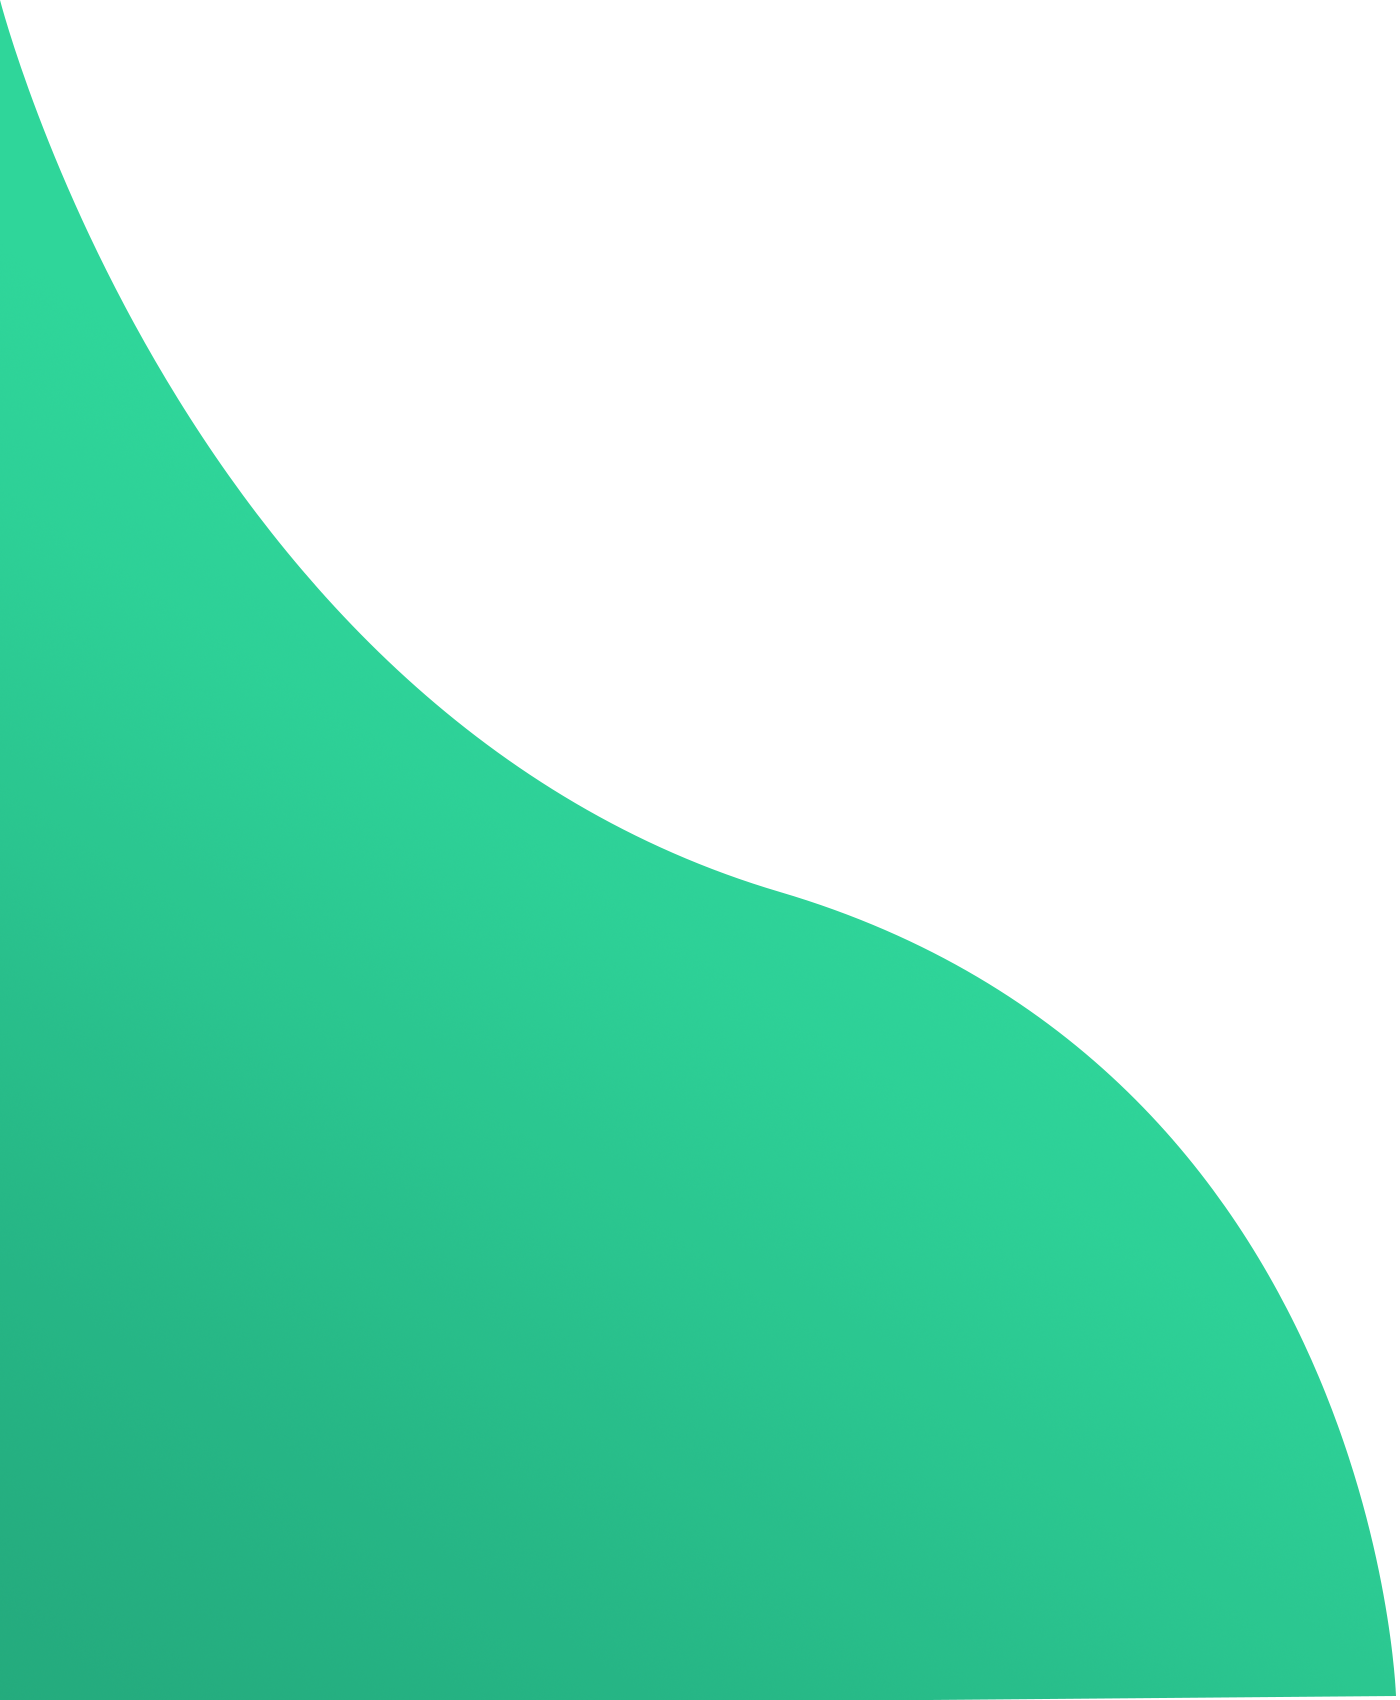
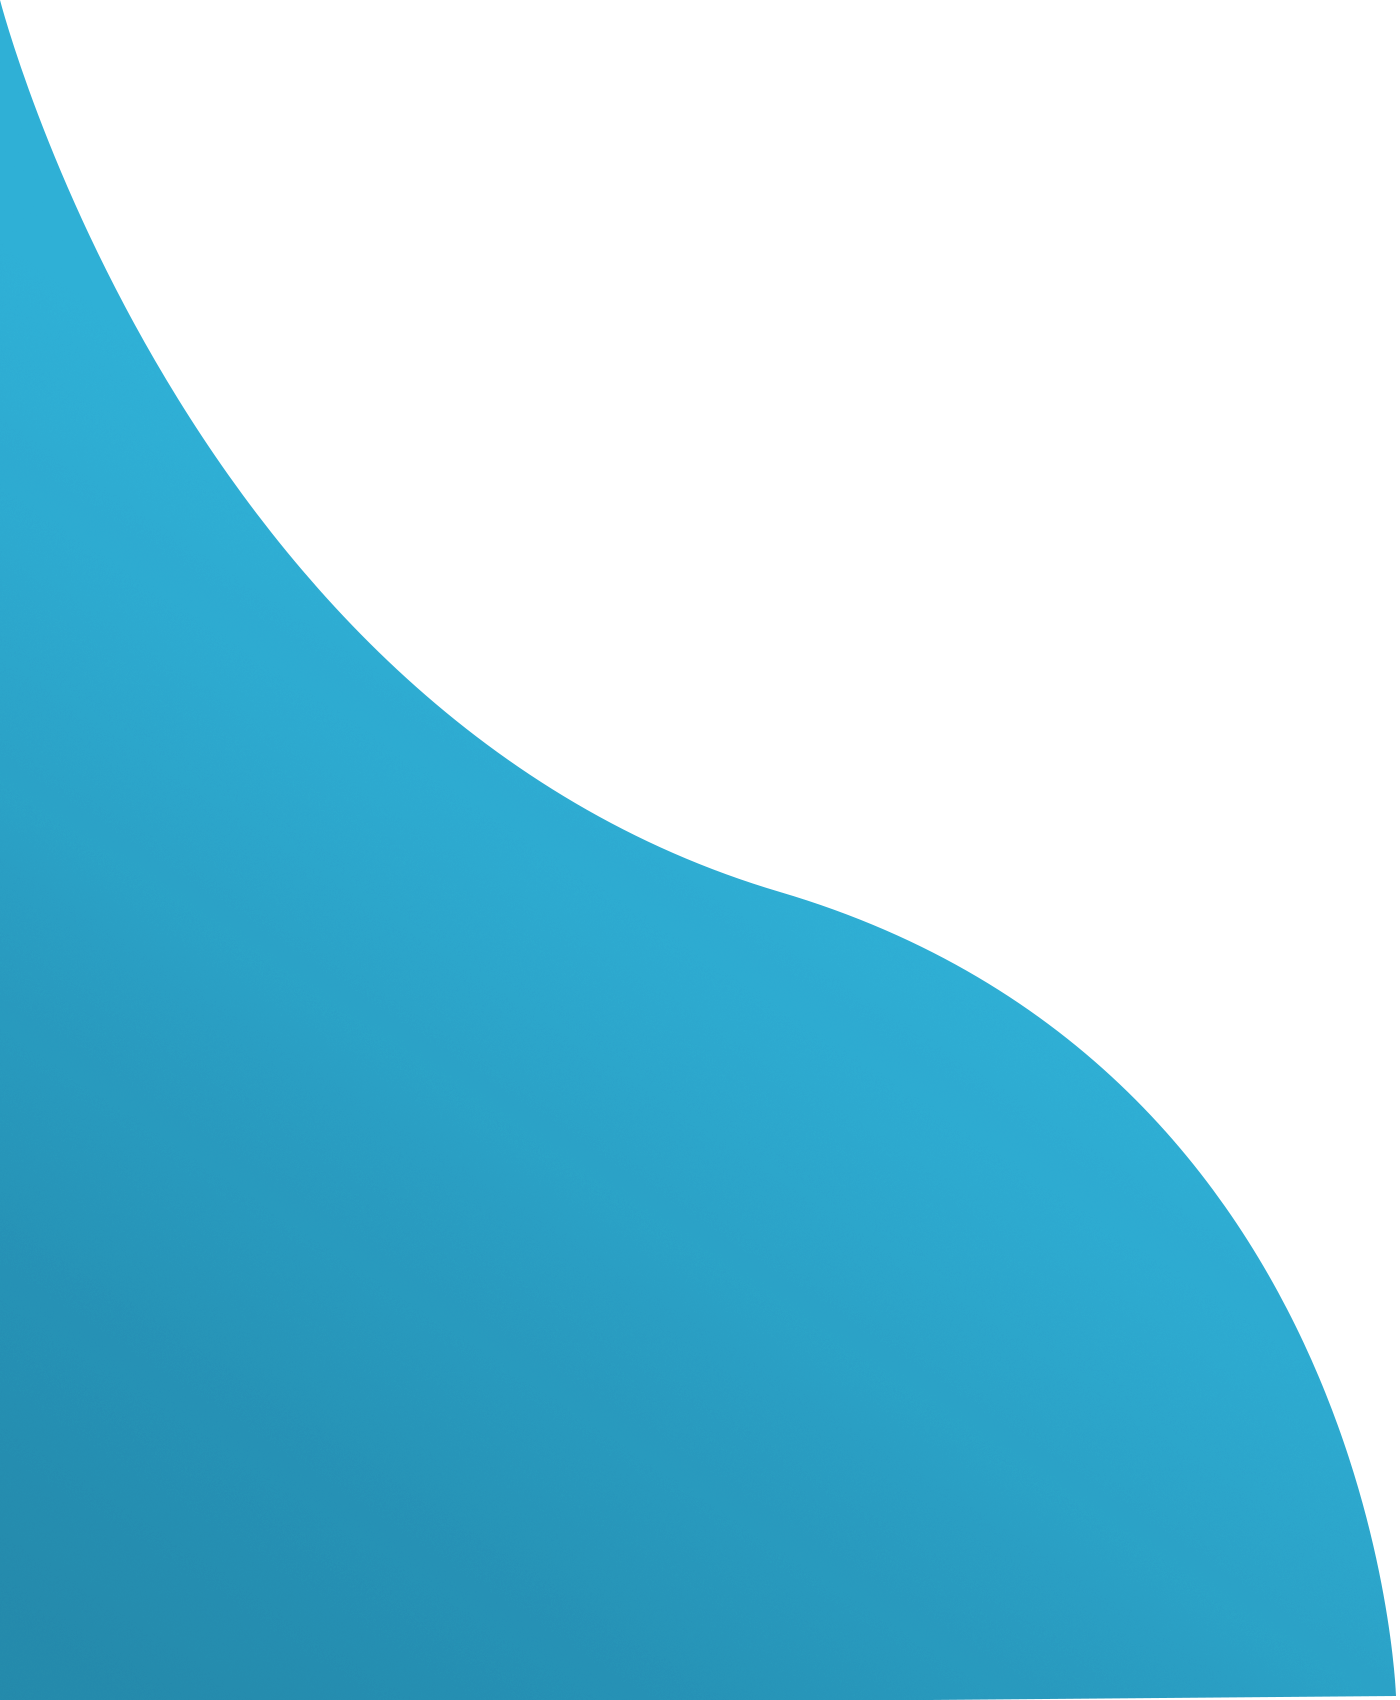
color-changed-blue

diff --git a/css/style.css b/css/style.css
@@ -23,7 +23,7 @@ li {
 }
 
 ul {
-    background-color: #32be8f;
+    background-color: #1E6AE1;
 }
 
 .nav-bar.active {
@@ -96,6 +96,7 @@ body {
 
 .img img {
     width: 500px;
+    filter: hue-rotate(45deg)
 }
 
 form {
@@ -229,7 +230,7 @@ a:hover {
     border-radius: 25px;
     outline: none;
     border: none;
-    background-image: linear-gradient(to right, #32be8f, #38d39f, #32be8f);
+    background-image: linear-gradient(to right, #1E6AE1, #36c1c8, #1c61ce);
     background-size: 200%;
     font-size: 1.2rem;
     color: #fff;
